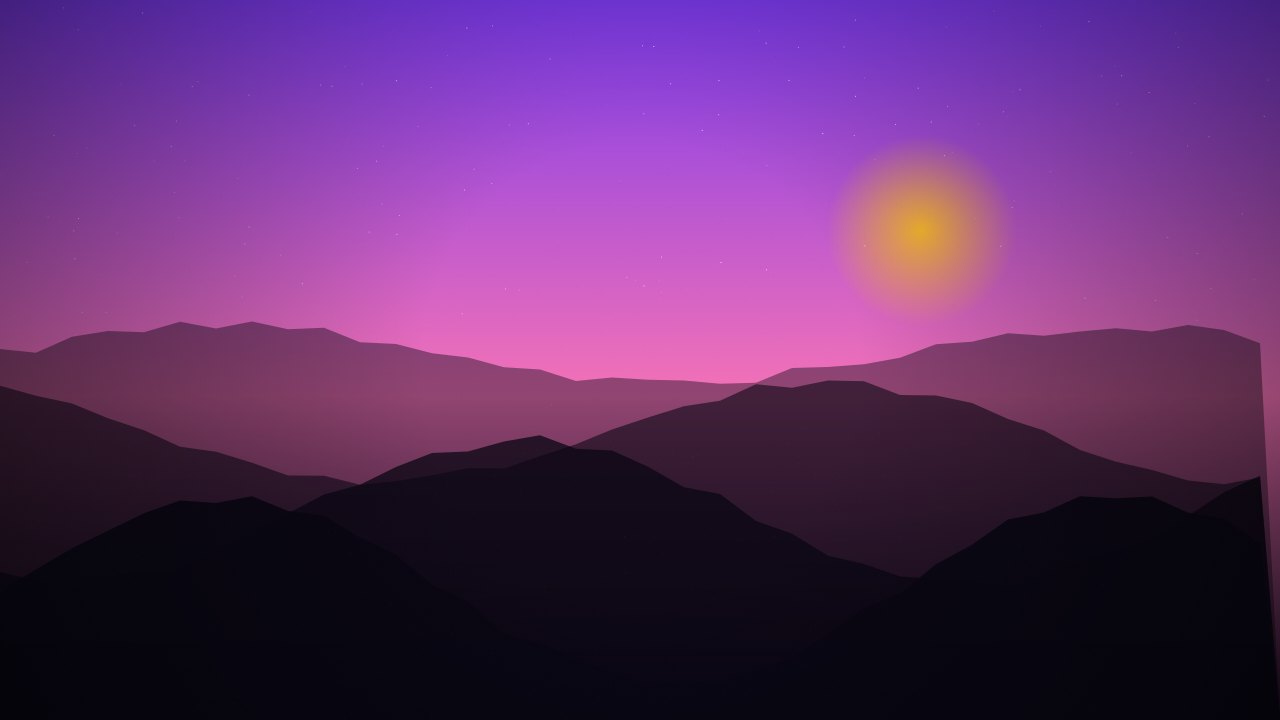
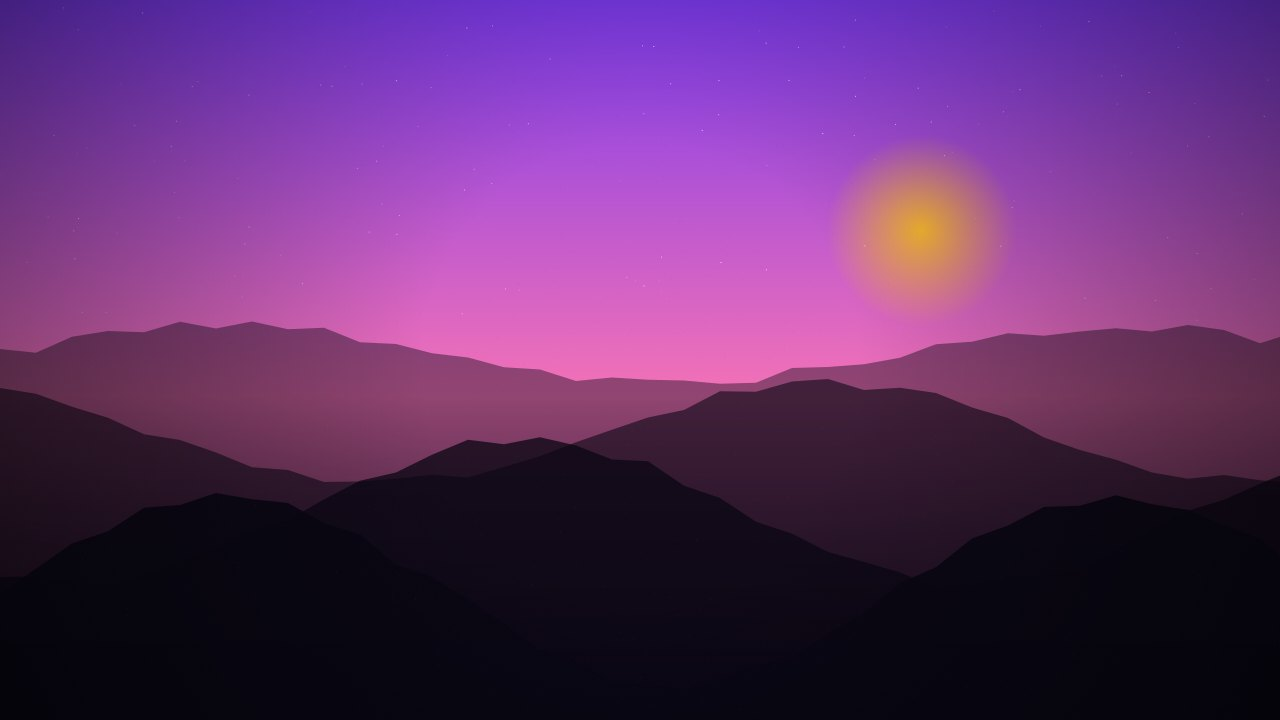
Music Video: fix mountains-image seam + surface save/download failures
- Mountains generator: the ridge loop stopped at x=1260 (step didn't reach 1280),
  so it dropped diagonally at the right edge (a vertical seam). Now it steps past W
  and clamps, so the ridge meets the exact edge. Regenerated.
- Save-for-offline / Download failed silently on an unreachable clip; both now
  report a clear message (needs a connection, and CORS for streamed clips), and
  downloadToDevice returns success.

diff --git a/components/apps/MusicVideo.tsx b/components/apps/MusicVideo.tsx
@@ -517,6 +517,7 @@ function LiveVisualizer({ onExit }: { onExit: () => void }) {
   // Offline save/download for the selected library clip
   const [savedCurrent, setSavedCurrent] = useState(false)
   const [savingBg, setSavingBg] = useState(false)
+  const [bgMsg, setBgMsg] = useState('')
   const [bgSrcOverride, setBgSrcOverride] = useState<string | null>(null)   // local blob URL when saved offline
   const overrideRef = useRef<string | null>(null)
   const ambient = AMBIENTS.find(a => a.id === bgKind)
@@ -531,6 +532,7 @@ function LiveVisualizer({ onExit }: { onExit: () => void }) {
   useEffect(() => {
     let cancelled = false
     const revoke = () => { if (overrideRef.current) { URL.revokeObjectURL(overrideRef.current); overrideRef.current = null } }
+    setBgMsg('')
     if (bgKind !== 'library' || !bgClip) { revoke(); setBgSrcOverride(null); setSavedCurrent(false); return }
     ;(async () => {
       const url = await localUrl(bgClip.src)
@@ -543,9 +545,10 @@ function LiveVisualizer({ onExit }: { onExit: () => void }) {
   useEffect(() => () => { if (overrideRef.current) URL.revokeObjectURL(overrideRef.current) }, [])
   const saveBgOffline = useCallback(async () => {
     if (!bgClip) return
-    setSavingBg(true)
+    setSavingBg(true); setBgMsg('')
     const ok = await saveAssets(bgClip.kind === 'video' ? [bgClip.src, bgClip.preview] : [bgClip.src])
     if (ok) { const url = await localUrl(bgClip.src); if (overrideRef.current) URL.revokeObjectURL(overrideRef.current); overrideRef.current = url; setBgSrcOverride(url); setSavedCurrent(true) }
+    else setBgMsg('Couldn’t save — the clip isn’t reachable yet (needs a connection, and CORS for streamed clips).')
     setSavingBg(false)
   }, [bgClip])
   const removeBgOffline = useCallback(async () => {
@@ -554,7 +557,12 @@ function LiveVisualizer({ onExit }: { onExit: () => void }) {
     if (overrideRef.current) { URL.revokeObjectURL(overrideRef.current); overrideRef.current = null }
     setBgSrcOverride(null); setSavedCurrent(false)
   }, [bgClip])
-  const downloadBg = useCallback(() => { if (bgClip) downloadToDevice(bgClip.src, `${bgClip.id}.${bgClip.kind === 'video' ? 'mp4' : 'jpg'}`) }, [bgClip])
+  const downloadBg = useCallback(async () => {
+    if (!bgClip) return
+    setBgMsg('')
+    const ok = await downloadToDevice(bgClip.src, `${bgClip.id}.${bgClip.kind === 'video' ? 'mp4' : 'jpg'}`)
+    if (!ok) setBgMsg('Couldn’t download — the clip isn’t reachable yet.')
+  }, [bgClip])
   // EQ-filter driver: the draw loop reads this; when off (or no audio), the static filter applies.
   const eqRef = useRef({ on: false, blur, brightness, saturate, hueRot })
   useEffect(() => { eqRef.current = { on: eqFilters && reactive, blur, brightness, saturate, hueRot } }, [eqFilters, reactive, blur, brightness, saturate, hueRot])
@@ -884,6 +892,7 @@ function LiveVisualizer({ onExit }: { onExit: () => void }) {
               <button type="button" onClick={saveBgOffline} disabled={savingBg} style={{ display: 'inline-flex', alignItems: 'center', gap: 6, padding: '7px 12px', borderRadius: 999, fontSize: 12.5, fontWeight: 700, cursor: 'pointer', border: '1px solid var(--border)', background: 'var(--bg-card)', color: 'var(--text-secondary)', opacity: savingBg ? 0.6 : 1 }}><DownloadCloud size={13} /> {savingBg ? 'Saving…' : 'Save for offline'}</button>
             )}
             <button type="button" onClick={downloadBg} style={{ display: 'inline-flex', alignItems: 'center', gap: 6, padding: '7px 12px', borderRadius: 999, fontSize: 12.5, fontWeight: 700, cursor: 'pointer', border: '1px solid var(--border)', background: 'transparent', color: 'var(--text-muted)' }}><Download size={13} /> Download</button>
+            {bgMsg && <span style={{ flexBasis: '100%', fontSize: 11, color: '#f87171', lineHeight: 1.5 }}>{bgMsg}</span>}
           </div>
         )}
         <p style={{ fontSize: 11, color: 'var(--text-muted)', margin: '8px 0 0' }}>Saved backgrounds play with no connection. Bundled images already work offline once viewed.</p>
